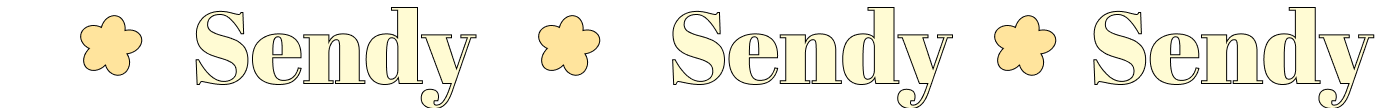
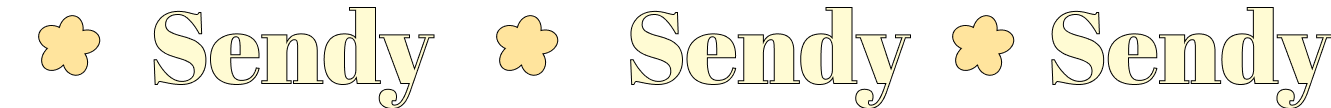
[FE][FEAT] 메인 페이지 스크롤링 애니메이션 구현 완료

Changed region(s): [[0.0308, 0.0556, 0.4313, 1.0], [0.4621, 0.0556, 0.7701, 1.0], [0.8009, 0.0556, 1.0, 1.0]]

diff --git a/client/src/pages/Main/Mainstyled.js b/client/src/pages/Main/Mainstyled.js
@@ -391,10 +391,10 @@ export const Theme = styled.div`
       margin-bottom: 1rem;
     }
     .flower {
-    width: 9rem;
-    top: -3rem;
-    right: -4rem;
-  }
+      width: 9rem;
+      top: -3rem;
+      right: -4rem;
+    }
   }
   @media screen and (max-height: 667px) {
     width: 250px;
@@ -448,22 +448,21 @@ export const SendyBottom = styled.div`
 `;
 
 export const Track = styled.div`
-  height: 100%;
+  width: 100%;
+  max-width: 100%;
+  height: auto;
   overflow: hidden;
   padding: 0.5rem 0;
   position: absolute;
+  display: flex;
 `;
 
 export const TrackImg = styled.span`
   animation: ${flowAnimation} 5s linear infinite;
-  align-items: center;
-  display: inline-flex;
 `;
 
 export const TrackImgReverse = styled.span`
   animation: ${flowAnimation} 5s linear infinite reverse;
-  align-items: center;
-  display: inline-flex;
 `;
 
 export const LastTextBox = styled.div`

diff --git a/client/src/pages/Main/Main.js b/client/src/pages/Main/Main.js
@@ -191,6 +191,18 @@ function Main() {
                 <M.TrackImg>
                   <img src={require("../../asset/mainImg/top.png")} alt="" />
                 </M.TrackImg>
+                <M.TrackImg>
+                  <img src={require("../../asset/mainImg/top.png")} alt="" />
+                </M.TrackImg>
+                <M.TrackImg>
+                  <img src={require("../../asset/mainImg/top.png")} alt="" />
+                </M.TrackImg>
+                <M.TrackImg>
+                  <img src={require("../../asset/mainImg/top.png")} alt="" />
+                </M.TrackImg>
+                <M.TrackImg>
+                  <img src={require("../../asset/mainImg/top.png")} alt="" />
+                </M.TrackImg>
               </M.Track>
             </M.SendyTop>
             <M.Last>
